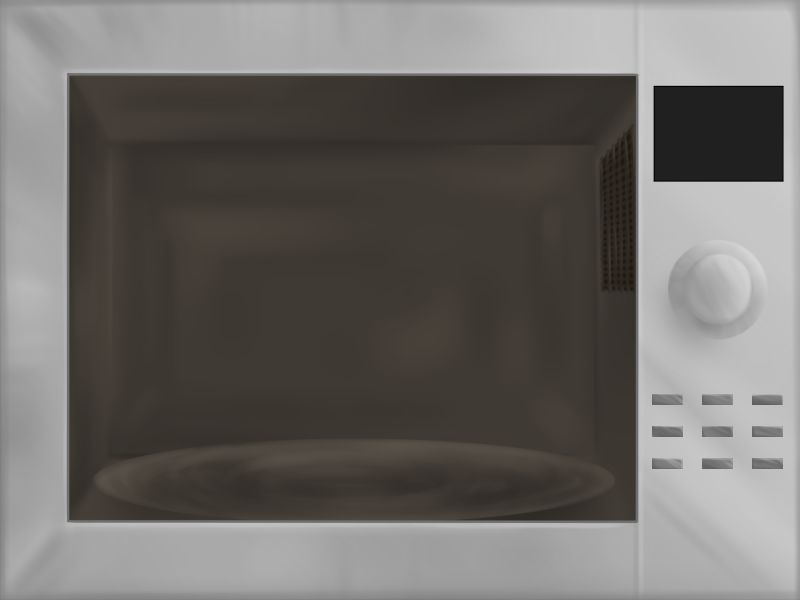
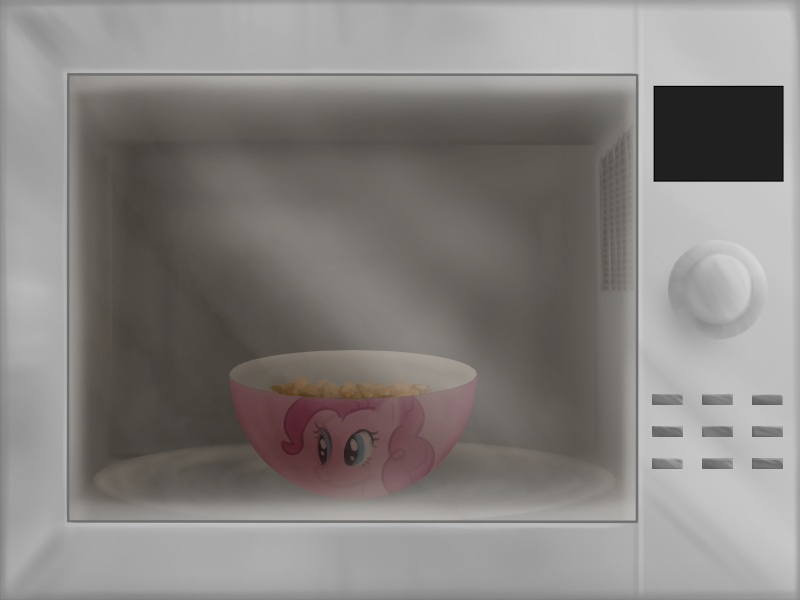
final touches

diff --git a/code/Game.js b/code/Game.js
@@ -503,6 +503,7 @@ glState.Game = class {
 		};
 	}
 	create() {
+		this.add.sprite(637,470,"sticky");
 		this.microwave = game.add.audio('microwave');
 		this.microwave.loop = true;
 		this.microwave.play();
@@ -529,9 +530,14 @@ glState.Game = class {
 		game.physics.arcade.enable(this.player);
 		this.player.body.setCircle(6);
 		game.physics.arcade.enable(this.player);
-		this.bowl = this.add.sprite(240,340,"bowl");
+		this.bowlAnim = 0;
+		this.bowlSpriteArray = [];
+		for (let i = 0; i <= 9; i++) {
+			this.bowlSpriteArray.push('bowl'+i);
+		}
+		this.bowl = this.add.sprite(229,350,this.bowlSpriteArray[0]);
 		this.bullets = this.add.group();
-		for (var i = 0; i < 500; i++) {
+		for (let i = 0; i < 500; i++) {
 			this.bullets.add(new Bullet());
 		}
 		this.add.sprite(68,54,"glass");
@@ -624,7 +630,39 @@ glState.Game = class {
 			})();
 			this.frameTimer++;
 			this.physics.arcade.overlap(this.player, this.bullets, ()=>{this.gameover=true;});
-
+			this.bowlAnim = this.bowlAnim+1;
+			let bowlAnimID = Math.floor(this.bowlAnim/4)%18;
+			switch (bowlAnimID) {
+				case 0:
+					this.bowl.loadTexture("bowl9",0);
+					break;
+				case 1:
+					this.bowl.loadTexture("bowl1",0);
+					break;
+				case 2:
+					this.bowl.loadTexture("bowl2",0);
+					break;
+				case 3:
+					this.bowl.loadTexture("bowl3",0);
+					break;
+				case 4:
+					this.bowl.loadTexture("bowl4",0);
+					break;
+				case 14:
+					this.bowl.loadTexture("bowl5",0);
+					break;
+				case 15:
+					this.bowl.loadTexture("bowl6",0);
+					break;
+				case 16:
+					this.bowl.loadTexture("bowl7",0);
+					break;
+				case 17:
+					this.bowl.loadTexture("bowl8",0);
+					break;
+				default:
+				this.bowl.loadTexture("bowl0",0);
+			}
 		}
 		this.bullets.children.forEach(i => {
 			if (i.baseWaveY > 0) {
@@ -643,7 +681,6 @@ glState.Game = class {
 				i.angle += i.angleVel/60;
 			}
 		});
-
 	}
 	movePlayer() {
 		let directionX = 0;

diff --git a/code/Boot.js b/code/Boot.js
@@ -17,7 +17,6 @@ glState.Boot = class {
 		this.load.image("bg1","assets/mainmenu1.png");
 		this.load.image("bg2","assets/mainmenu2.png");
 		this.load.image("glass","assets/glass.png");
-		this.load.image("bowl","assets/bowl.png");
 		this.load.image("border","assets/border.png");
 		this.load.image("fire","assets/fire.png");
 		this.load.image("lazor","assets/lazor.png");
@@ -44,6 +43,10 @@ glState.Boot = class {
 		this.load.audio('microwave', 'assets/microwave.wav');
 		this.load.audio('bibend', 'assets/bibend.wav');
 		this.load.audio('saltsound', 'assets/saltsound.wav');
+		this.load.image('sticky', 'assets/move.png');
+		for (var i = 0; i <= 9; i++) {
+			this.load.image('bowl'+i,'assets/bowl/miska'+i+'.png');
+		}
 	}
 	update() {
 		game.state.start('main');

diff --git a/code/End.js b/code/End.js
@@ -9,7 +9,7 @@ glState.End = class {
 		this.bibend.play();
 		this.game.add.text(200, 145, "You got Pop'ed.");
 		this.endtext = this.game.add.text(220,180, "SCORE: " + Math.floor(glState.score));
-		
+
 		//Highest score
 		if (glState.score > glState.hiScore) {
 			glState.hiScore = glState.score;
@@ -22,8 +22,6 @@ glState.End = class {
 		this.game.add.text(50, 570, "Press enter to try again.");
 		this.enter = game.input.keyboard.addKey(Phaser.Keyboard.ENTER);
 		this.enter.onDown.add(this.startMenu, this);
-		
-		
 	}
 	startMenu() {
 		this.bibend.stop();

diff --git a/code/main.js b/code/main.js
@@ -8,6 +8,7 @@ glState.MainState = class {
 		this.add.sprite(68,54,"glass");
 		this.spacebar = game.input.keyboard.addKey(Phaser.Keyboard.SPACEBAR);
 		this.spacebar.onDown.add(this.startGame, this);
+		this.add.sprite(637,470,"sticky");
 		this.scoreInfo = this.game.add.text(660, 86, "", { fill:"lime" } );
 		this.scoreInfo.font = 'VT323';
 		this.scoreInfo.text = "PRESS";
